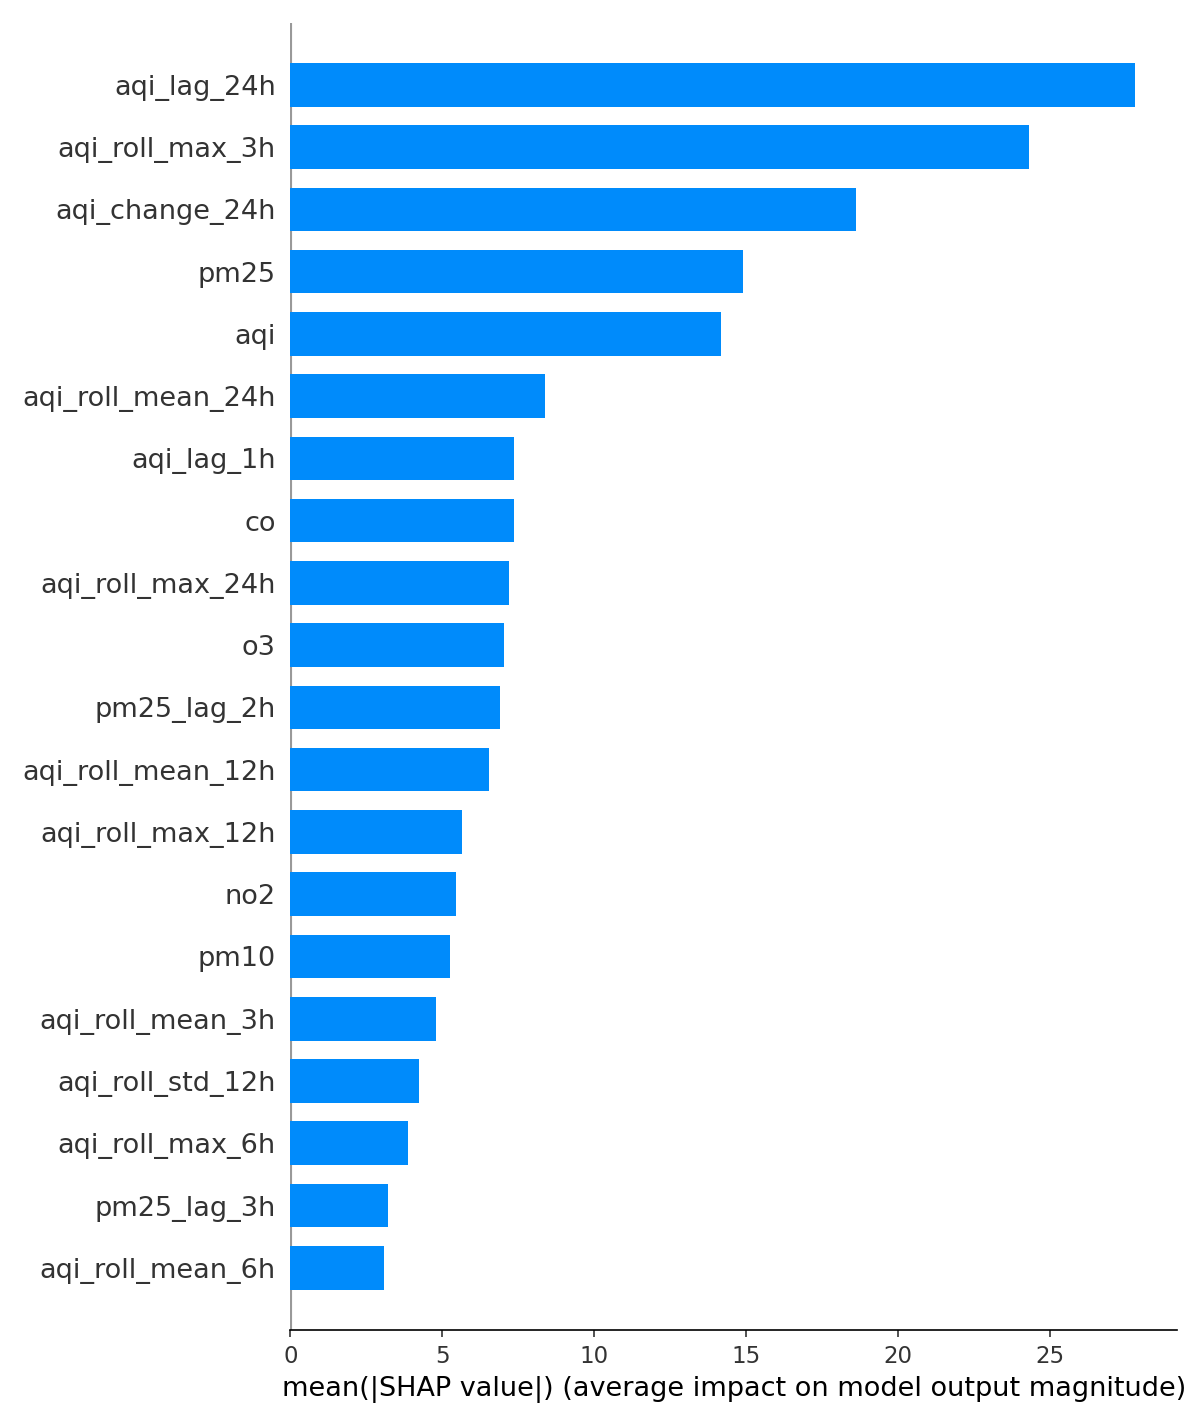
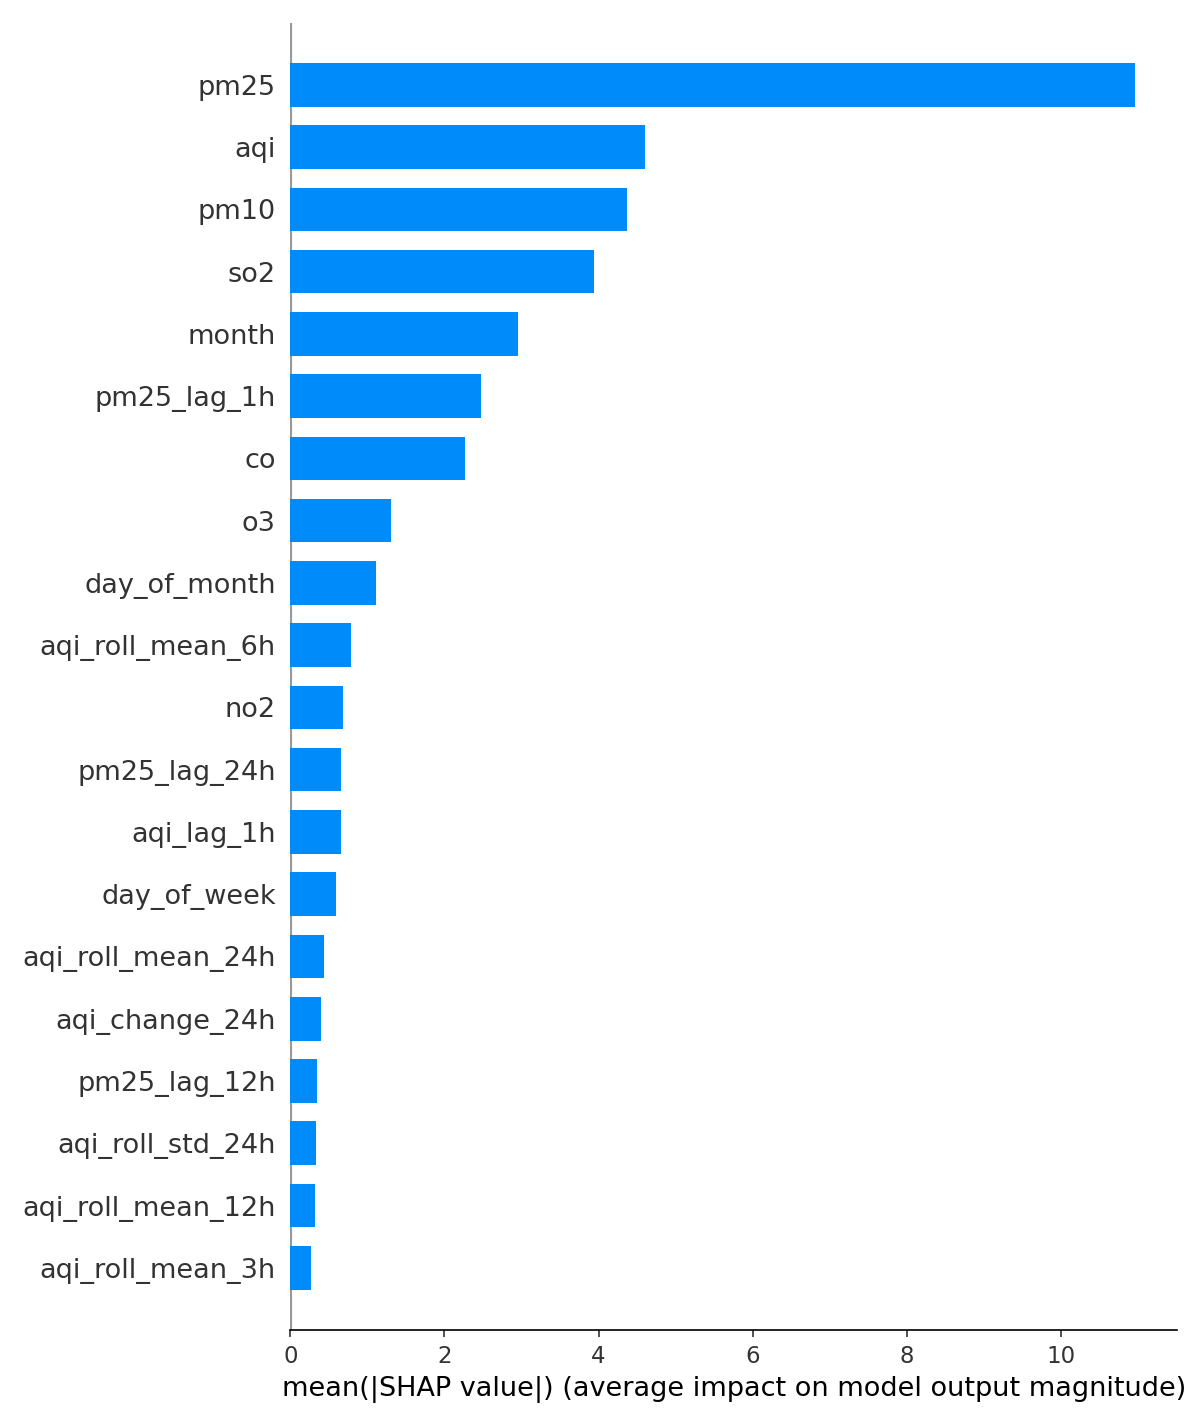
Improve model generalization and prevent overfitting using several techniques
Implement variance thresholding for feature selection, apply stronger regularization and shallower trees for XGBoost, adjust hyperparameters for Random Forest and RidgeCV, and ensure early stopping is correctly configured for gradient boosting models.

Replit-Commit-Author: Agent
Replit-Commit-Session-Id: c2b47184-0271-487d-b550-b5868c55debb
Replit-Commit-Checkpoint-Type: full_checkpoint
Replit-Commit-Event-Id: 237e66ae-f5de-4c34-aa85-442d1b191df1
Replit-Commit-Screenshot-Url: https://storage.googleapis.com/screenshot-production-us-central1/c291a614-6117-4d97-80bb-c11f317be26c/c2b47184-0271-487d-b550-b5868c55debb/X6tl1vO
Replit-Helium-Checkpoint-Created: true

diff --git a/models/baseline_models.py b/models/baseline_models.py
@@ -1,12 +1,13 @@
 import pandas as pd
 import numpy as np
-from sklearn.linear_model import Ridge, Lasso, ElasticNet
+from sklearn.linear_model import Ridge, RidgeCV, Lasso, ElasticNet
 from sklearn.ensemble import RandomForestRegressor, GradientBoostingRegressor
 from sklearn.preprocessing import StandardScaler
 from sklearn.pipeline import Pipeline
 from sklearn.model_selection import TimeSeriesSplit, RandomizedSearchCV
 from xgboost import XGBRegressor
 from lightgbm import LGBMRegressor
+import lightgbm as lgb
 from model_utils import evaluate, explain_with_shap, save_model
 
 # ─── DATA LOADING ─────────────────────────────────────────────────────────────
@@ -62,26 +63,30 @@ def time_series_cv(model, X, y, n_splits=5):
 # ─── MODEL DEFINITIONS ────────────────────────────────────────────────────────
 
 def build_ridge():
-    """Linear baseline with L2 regularization."""
+    """
+    Linear baseline with L2 regularization.
+    RidgeCV auto-selects the best alpha via cross-validation instead of
+    guessing alpha=1.0, which removes one source of underfitting/overfitting.
+    """
     return Pipeline([
         ("scaler", StandardScaler()),
-        ("model",  Ridge(alpha=1.0))
+        ("model",  RidgeCV(alphas=[0.01, 0.1, 1.0, 10.0, 100.0, 500.0]))
     ])
 
 
 def build_random_forest():
     """
     Strong non-linear baseline. Handles feature interactions well.
-    Key hyperparameters:
-      - n_estimators: more trees = better but slower (100-500)
-      - max_depth: controls overfitting (None = fully grown, risky for AQI)
-      - min_samples_leaf: minimum samples per leaf, improves generalization
+    Anti-overfitting changes vs. the original:
+      - max_depth: 15 → 8   (shallower trees generalise better)
+      - min_samples_leaf: 5 → 20  (each leaf needs more evidence)
+      - max_features: 0.7 → 0.5  (more feature randomness = less variance)
     """
     return RandomForestRegressor(
-        n_estimators=200,
-        max_depth=15,
-        min_samples_leaf=5,
-        max_features=0.7,        # use 70% of features at each split
+        n_estimators=300,
+        max_depth=8,
+        min_samples_leaf=20,
+        max_features=0.5,
         n_jobs=-1,
         random_state=42,
     )
@@ -89,24 +94,26 @@ def build_random_forest():
 
 def build_xgboost():
     """
-    Usually the best performer on tabular time-series data.
-    Key hyperparameters:
-      - learning_rate (eta): smaller = better generalization (try 0.01-0.3)
-      - n_estimators: number of boosting rounds (use early stopping)
-      - max_depth: depth of trees (3-8 for tabular data)
-      - subsample: row sampling per tree (0.6-1.0)
-      - colsample_bytree: feature sampling per tree (0.6-1.0)
+    Gradient boosting. Early stopping is applied in MultiHorizonForecaster.fit()
+    using the last 15 % of training as a validation set.
+    Anti-overfitting changes vs. original:
+      - max_depth: 6 → 4   (shallower)
+      - min_child_weight: 5 → 20  (higher = less sensitive to noise)
+      - reg_alpha: 0.1 → 1.0   (stronger L1)
+      - reg_lambda: 1.0 → 5.0  (stronger L2)
+      - n_estimators set high; early stopping finds the true optimum
     """
     return XGBRegressor(
-        n_estimators=500,
+        n_estimators=1000,
         learning_rate=0.05,
-        max_depth=6,
+        max_depth=4,
         subsample=0.8,
-        colsample_bytree=0.8,
-        min_child_weight=5,
-        reg_alpha=0.1,           # L1 regularization
-        reg_lambda=1.0,          # L2 regularization
+        colsample_bytree=0.7,
+        min_child_weight=20,
+        reg_alpha=1.0,
+        reg_lambda=5.0,
         eval_metric="rmse",
+        early_stopping_rounds=50,   # XGBoost ≥ 2.0: constructor param, not fit()
         random_state=42,
         n_jobs=-1,
     )
@@ -114,21 +121,28 @@ def build_xgboost():
 
 def build_lightgbm():
     """
-    Faster than XGBoost, often comparable accuracy.
-    Better for large datasets (>100k rows).
+    Gradient boosting, leaf-wise growth. Early stopping applied in
+    MultiHorizonForecaster.fit().
+    Anti-overfitting changes vs. original:
+      - max_depth: 6 → 4
+      - num_leaves: 63 → 31  (2^4 − 1; keeps trees shallow)
+      - min_child_samples: 20 → 50  (more data per leaf)
+      - reg_alpha: 0.1 → 1.0
+      - reg_lambda: 1.0 → 5.0
     """
     return LGBMRegressor(
-        n_estimators=500,
+        n_estimators=1000,
         learning_rate=0.05,
-        max_depth=6,
-        num_leaves=63,           # 2^max_depth - 1 is a good rule of thumb
+        max_depth=4,
+        num_leaves=31,
         subsample=0.8,
-        colsample_bytree=0.8,
-        min_child_samples=20,
-        reg_alpha=0.1,
-        reg_lambda=1.0,
+        colsample_bytree=0.7,
+        min_child_samples=50,
+        reg_alpha=1.0,
+        reg_lambda=5.0,
         random_state=42,
         n_jobs=-1,
+        verbose=-1,
     )
 
 
@@ -178,13 +192,50 @@ class MultiHorizonForecaster:
         self.base_model_fn = base_model_fn
         self.horizons = [24, 48, 72]
 
-    def fit(self, X, y_dict):
-        """y_dict = {"24h": Series, "48h": Series, "72h": Series}"""
+    def fit(self, X, y_dict, val_fraction=0.15):
+        """
+        y_dict = {"24h": array, "48h": array, "72h": array}
+
+        val_fraction: fraction of training data held out as an *internal*
+        validation set for early stopping (XGBoost / LightGBM only).
+        Ridge and RandomForest always train on the full X.
+        """
+        n_val  = max(50, int(len(X) * val_fraction))
+        X_tr   = X[:-n_val]
+        X_val  = X[-n_val:]
+
         for h in self.horizons:
-            key = f"{h}h"
+            key   = f"{h}h"
+            y_tr  = y_dict[key][:-n_val]
+            y_val = y_dict[key][-n_val:]
+
             print(f"\n🏋️  Training {h}h horizon model...")
-            model = self.base_model_fn()
-            model.fit(X, y_dict[key])
+            model      = self.base_model_fn()
+            model_name = type(model).__name__
+
+            if model_name == "XGBRegressor":
+                model.fit(
+                    X_tr, y_tr,
+                    eval_set=[(X_val, y_val)],
+                    verbose=False,
+                )
+                print(f"   ↳ XGBoost stopped at round {model.best_iteration}")
+
+            elif model_name == "LGBMRegressor":
+                model.fit(
+                    X_tr, y_tr,
+                    eval_set=[(X_val, y_val)],
+                    callbacks=[
+                        lgb.early_stopping(stopping_rounds=50, verbose=False),
+                        lgb.log_evaluation(period=-1),
+                    ],
+                )
+                print(f"   ↳ LightGBM stopped at round {model.best_iteration_}")
+
+            else:
+                # Ridge (Pipeline) and RandomForest: use the full training set
+                model.fit(X, y_dict[key])
+
             self.models[key] = model
         return self
 

diff --git a/pipelines/training_pipeline.py b/pipelines/training_pipeline.py
@@ -31,6 +31,7 @@ import numpy as np
 import hopsworks
 from dotenv import load_dotenv
 from sklearn.model_selection import train_test_split
+from sklearn.feature_selection import VarianceThreshold
 from baseline_models import (
     build_xgboost, build_lightgbm, build_random_forest,
     build_ridge, MultiHorizonForecaster, time_series_cv
@@ -98,6 +99,17 @@ def run_training():
     )
 
     print(f"✅ Usable rows after recomputing features: {len(df)}")
+
+    # ── 2c. Drop near-zero-variance features ─────────────────────────────────
+    # Features whose variance is < 1% of the max variance carry almost no
+    # signal but add noise degrees-of-freedom that cause overfitting.
+    X_all = df[feature_cols].values
+    vt    = VarianceThreshold(threshold=0.0)   # removes truly constant cols
+    vt.fit(X_all)
+    kept_mask    = vt.get_support()
+    feature_cols = [c for c, k in zip(feature_cols, kept_mask) if k]
+    print(f"🔬 Features after variance filter: {len(feature_cols)} "
+          f"(dropped {kept_mask.size - kept_mask.sum()} constant cols)")
 
     X = df[feature_cols].values
     y = {